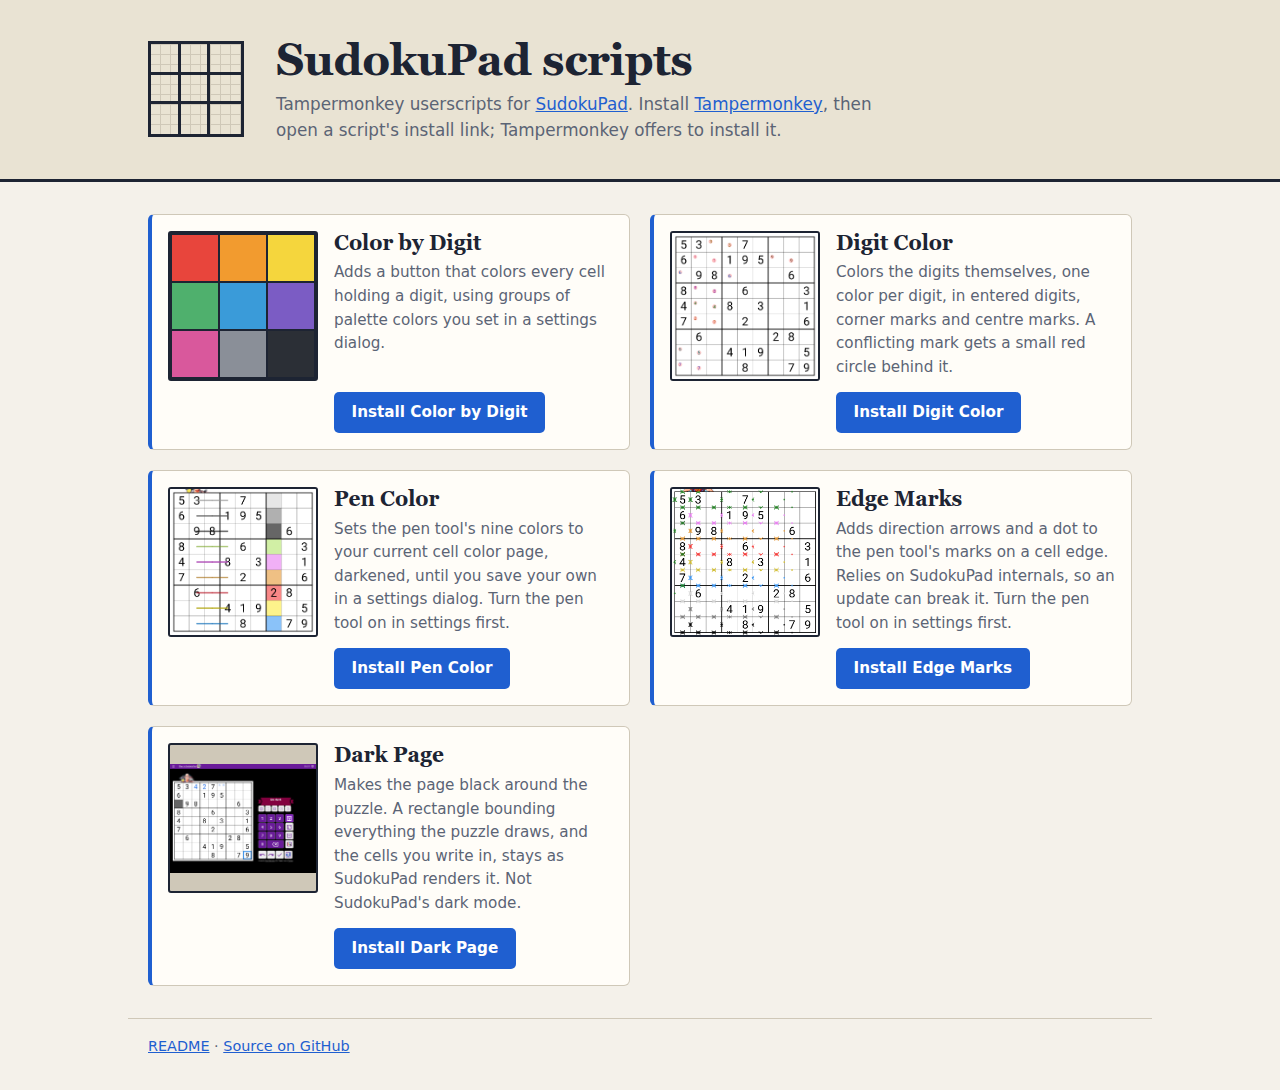
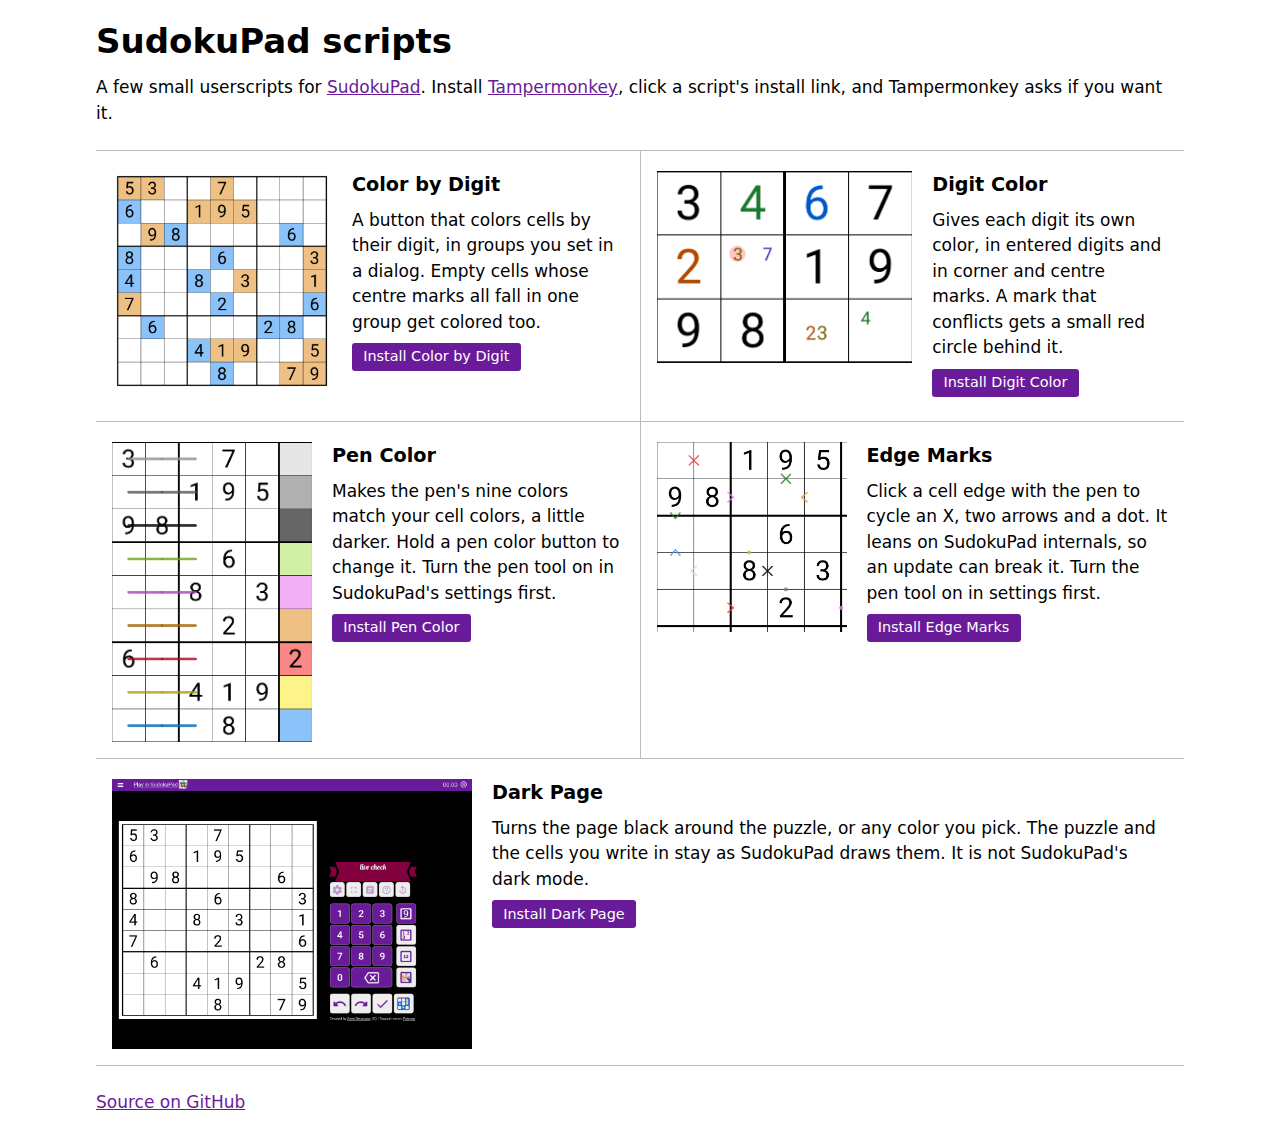
Homepage: plain hand-made page with real screenshots (#44) (#47)
* Homepage: rebuild as a plain hand-written page, with real screenshots

Closes #44

* Homepage pictures: keep the research evidence, crop to the feature

Homepage pictures get their own files so edge-marks-all-colors.png and
pen-color-match.png stay what the research notes say they are. Pen Color is
cropped to the strokes and matching colors; Edge Marks keeps a margin so no
mark is cut.

Closes #44

* Homepage: SudokuPad purple accent, grid rules, two columns on desktop

Closes #44

* Homepage: new Digit Color picture, a close crop with colored digits and marks

Closes #44

* Homepage: Digit Color picture cropped closer so the marks read

Closes #44

* Homepage: pictures use the full phone width

Closes #44

* Homepage: retake the desktop render

Closes #44

---------

diff --git a/site/index.html b/site/index.html
@@ -7,110 +7,78 @@
 <style>
   :root {
     color-scheme: light dark;
-    --bg: #f4f1ea; --card: #fffdf8; --ink: #1d2433; --muted: #5b6475; --line: #cfc8b8; --grid: #1d2433;
-    --accent: #1f5fd0; --accent-ink: #fff; --accent-hover: #1749a3; --hero: #e9e3d3; --pic: 150px; --rule: 3px;
+    /* SudokuPad's own button purple, read from its controls: rgb(106, 27, 154). */
+    --accent: #6a1b9a; --on-accent: #fff; --rule: #bbb;
   }
   @media (prefers-color-scheme: dark) {
-    :root {
-      --bg: #12151c; --card: #1b202b; --ink: #e8eaf0; --muted: #a2abbd; --line: #343c4d; --grid: #e8eaf0;
-      --accent: #6aa4ff; --accent-ink: #0b1220; --accent-hover: #93bcff; --hero: #181d28;
-    }
+    :root { --accent: #d2a8f0; --on-accent: #1a0a24; --rule: #555; }
   }
-  * { box-sizing: border-box; }
-  body { margin: 0; font: 16px/1.55 system-ui, -apple-system, "Segoe UI", sans-serif; color: var(--ink); background: var(--bg); }
+  body { max-width: 68rem; margin: 0 auto; padding: 1rem; font: 1.0625rem/1.5 system-ui, sans-serif; }
   a { color: var(--accent); }
-  .wrap { max-width: 64rem; margin: 0 auto; padding: 0 1.25rem; }
-  header { background: var(--hero); border-bottom: 3px solid var(--grid); }
-  header .wrap { display: flex; align-items: center; gap: 2rem; padding-top: 2.25rem; padding-bottom: 2.25rem; }
-  .logo { flex: none; width: 96px; height: 96px; border: var(--rule) solid var(--grid); background:
-    linear-gradient(var(--grid), var(--grid)) calc(100% / 3 - var(--rule) / 2) 0 / var(--rule) 100% no-repeat,
-    linear-gradient(var(--grid), var(--grid)) calc(200% / 3 - var(--rule) / 2) 0 / var(--rule) 100% no-repeat,
-    linear-gradient(var(--grid), var(--grid)) 0 calc(100% / 3 - var(--rule) / 2) / 100% var(--rule) no-repeat,
-    linear-gradient(var(--grid), var(--grid)) 0 calc(200% / 3 - var(--rule) / 2) / 100% var(--rule) no-repeat,
-    repeating-linear-gradient(90deg, transparent 0 calc(100% / 9 - 1px), var(--line) calc(100% / 9 - 1px) calc(100% / 9)),
-    repeating-linear-gradient(0deg, transparent 0 calc(100% / 9 - 1px), var(--line) calc(100% / 9 - 1px) calc(100% / 9)); }
-  h1 { margin: 0 0 .4rem; font: 800 clamp(1.9rem, 5vw, 2.75rem)/1.1 Georgia, "Times New Roman", serif; letter-spacing: -.01em; }
-  header p { margin: 0; max-width: 40rem; color: var(--muted); font-size: 1.05rem; }
-  main.wrap { display: grid; grid-template-columns: repeat(2, minmax(0, 1fr)); gap: 1.25rem; padding-top: 2rem; padding-bottom: 2rem; }
-  article { display: flex; gap: 1rem; background: var(--card); border: 1px solid var(--line); border-left: 4px solid var(--accent); border-radius: 6px; padding: 1rem; min-width: 0; }
-  .pic { flex: none; width: var(--pic); }
-  .pic img, .swatch { width: var(--pic); height: var(--pic); border: 2px solid var(--grid); border-radius: 3px; }
-  .pic img { display: block; object-fit: contain; background: var(--line); }
-  .swatch { display: grid; grid-template-columns: repeat(3, 1fr); gap: 2px; padding: 2px; background: var(--grid); }
-  .text { display: flex; flex-direction: column; min-width: 0; }
-  h2 { margin: 0 0 .35rem; font: 700 1.3rem/1.2 Georgia, "Times New Roman", serif; }
-  .text p { margin: 0 0 .8rem; font-size: .95rem; color: var(--muted); }
-  .text p:last-child { margin: auto 0 0; }
-  .install { display: inline-block; padding: .55rem 1.1rem; background: var(--accent); color: var(--accent-ink); border-radius: 5px; font-weight: 700; text-decoration: none; }
-  .install:hover, .install:focus-visible { background: var(--accent-hover); }
-  footer.wrap { border-top: 1px solid var(--line); padding-top: 1rem; padding-bottom: 2rem; color: var(--muted); font-size: .9rem; }
-  footer p { margin: 0; }
-  @media (max-width: 52rem) {
-    main.wrap { grid-template-columns: minmax(0, 1fr); }
+  h1, h2 { margin: 0 0 .5rem; }
+  h2 { font-size: 1.2rem; }
+  p { margin: 0 0 .5rem; }
+  .entries { display: grid; grid-template-columns: 1fr; gap: 1px; margin: 1.5rem 0; background: var(--rule); border-block: 1px solid var(--rule); }
+  section { display: flex; gap: 1.25rem; align-items: flex-start; padding: 1.25rem 1rem 1rem 0; background: Canvas; }
+  section img { flex: none; max-width: 50%; height: auto; }
+  .install { display: inline-block; padding: .2rem .7rem; border-radius: 3px; background: var(--accent); color: var(--on-accent); font-size: .9rem; text-decoration: none; }
+  .install:hover, .install:focus-visible { text-decoration: underline; }
+  @media (min-width: 52rem) {
+    .entries { grid-template-columns: 1fr 1fr; }
+    section { padding-left: 1rem; }
+    section:last-child:nth-child(odd) { grid-column: 1 / -1; }
   }
-  @media (max-width: 34rem) {
-    header .wrap { flex-direction: column; align-items: flex-start; gap: 1rem; }
-    .logo { width: 64px; height: 64px; }
-    article { flex-direction: column; }
-    .pic, .pic img, .swatch { width: 100%; max-width: 220px; }
-    .pic img, .swatch { height: auto; aspect-ratio: 1; }
+  @media (max-width: 36rem) {
+    section { flex-direction: column; gap: .75rem; padding-left: 0; }
+    section img { max-width: 100%; }
   }
 </style>
 </head>
 <body>
-  <header>
-    <div class="wrap">
-      <div class="logo" aria-hidden="true"></div>
-      <div>
-        <h1>SudokuPad scripts</h1>
-        <p>Tampermonkey userscripts for <a href="https://sudokupad.app">SudokuPad</a>. Install <a href="https://www.tampermonkey.net/">Tampermonkey</a>, then open a script's install link; Tampermonkey offers to install it.</p>
-      </div>
+  <h1>SudokuPad scripts</h1>
+  <p>A few small userscripts for <a href="https://sudokupad.app">SudokuPad</a>. Install <a href="https://www.tampermonkey.net/">Tampermonkey</a>, click a script's install link, and Tampermonkey asks if you want it.</p>
+  <div class="entries">
+  <section>
+    <img src="https://raw.githubusercontent.com/caneff/sudokupad-scripts/main/docs/research/site-color-by-digit.png" alt="A sudoku grid with cells colored by digit" width="220" height="220">
+    <div>
+      <h2>Color by Digit</h2>
+      <p>A button that colors cells by their digit, in groups you set in a dialog. Empty cells whose centre marks all fall in one group get colored too.</p>
+      <p><a class="install" href="https://raw.githubusercontent.com/caneff/sudokupad-scripts/main/color-by-digit.user.js">Install Color by Digit</a></p>
     </div>
-  </header>
-  <main class="wrap">
-    <article>
-      <div class="pic"><div class="swatch" role="img" aria-label="A grid of colored cells"><i style="background:#e8453c"></i><i style="background:#f29b2f"></i><i style="background:#f5d63d"></i><i style="background:#4fb06d"></i><i style="background:#3a9bd9"></i><i style="background:#7b5cc4"></i><i style="background:#d9589c"></i><i style="background:#8a8f98"></i><i style="background:#2b2f36"></i></div></div>
-      <div class="text">
-        <h2>Color by Digit</h2>
-        <p>Adds a button that colors every cell holding a digit, and every empty cell whose centre marks all belong to one group, using groups of palette colors you set in a settings dialog.</p>
-        <p><a class="install" href="https://raw.githubusercontent.com/caneff/sudokupad-scripts/main/color-by-digit.user.js">Install Color by Digit</a></p>
-      </div>
-    </article>
-    <article>
-      <div class="pic"><img src="https://raw.githubusercontent.com/caneff/sudokupad-scripts/main/docs/research/digit-color-centred-circles.png" alt="Digit Color in SudokuPad" loading="lazy" width="150" height="150"></div>
-      <div class="text">
-        <h2>Digit Color</h2>
-        <p>Colors the digits themselves, one color per digit, in entered digits, corner marks and centre marks. A conflicting mark gets a small red circle behind it.</p>
-        <p><a class="install" href="https://raw.githubusercontent.com/caneff/sudokupad-scripts/main/digit-color.user.js">Install Digit Color</a></p>
-      </div>
-    </article>
-    <article>
-      <div class="pic"><img src="https://raw.githubusercontent.com/caneff/sudokupad-scripts/main/docs/research/pen-color-match.png" alt="Pen Color in SudokuPad" loading="lazy" width="150" height="150"></div>
-      <div class="text">
-        <h2>Pen Color</h2>
-        <p>Sets the pen tool's nine colors to your current cell color page, darkened, each pen on the same button number as its cell color and the darkest grey black, until you save your own in a settings dialog or by holding a pen color button. Turn the pen tool on in settings first.</p>
-        <p><a class="install" href="https://raw.githubusercontent.com/caneff/sudokupad-scripts/main/pen-color.user.js">Install Pen Color</a></p>
-      </div>
-    </article>
-    <article>
-      <div class="pic"><img src="https://raw.githubusercontent.com/caneff/sudokupad-scripts/main/docs/research/edge-marks-all-colors.png" alt="Edge Marks in SudokuPad" loading="lazy" width="150" height="150"></div>
-      <div class="text">
-        <h2>Edge Marks</h2>
-        <p>Adds direction arrows and a dot to the pen tool's marks on a cell edge. Relies on SudokuPad internals, so an update can break it. Turn the pen tool on in settings first.</p>
-        <p><a class="install" href="https://raw.githubusercontent.com/caneff/sudokupad-scripts/main/edge-marks.user.js">Install Edge Marks</a></p>
-      </div>
-    </article>
-    <article>
-      <div class="pic"><img src="https://raw.githubusercontent.com/caneff/sudokupad-scripts/main/docs/research/dark-page.png" alt="Dark Page in SudokuPad" loading="lazy" width="150" height="150"></div>
-      <div class="text">
-        <h2>Dark Page</h2>
-        <p>Makes the page black around the puzzle, or another color you pick in a settings dialog. A rectangle bounding everything the puzzle draws, and the cells you write in, stays as SudokuPad renders it. Not SudokuPad's dark mode.</p>
-        <p><a class="install" href="https://raw.githubusercontent.com/caneff/sudokupad-scripts/main/dark-page.user.js">Install Dark Page</a></p>
-      </div>
-    </article>
-  </main>
-  <footer class="wrap">
-    <p><a href="https://github.com/caneff/sudokupad-scripts#readme">README</a> · <a href="https://github.com/caneff/sudokupad-scripts">Source on GitHub</a></p>
-  </footer>
+  </section>
+  <section>
+    <img src="https://raw.githubusercontent.com/caneff/sudokupad-scripts/main/docs/research/site-digit-color.png" alt="Large colored digits with matching corner and centre marks, one with a red circle" width="300" height="225">
+    <div>
+      <h2>Digit Color</h2>
+      <p>Gives each digit its own color, in entered digits and in corner and centre marks. A mark that conflicts gets a small red circle behind it.</p>
+      <p><a class="install" href="https://raw.githubusercontent.com/caneff/sudokupad-scripts/main/digit-color.user.js">Install Digit Color</a></p>
+    </div>
+  </section>
+  <section>
+    <img src="https://raw.githubusercontent.com/caneff/sudokupad-scripts/main/docs/research/site-pen-color.png" alt="Pen strokes beside cells in matching colors" width="200" height="300">
+    <div>
+      <h2>Pen Color</h2>
+      <p>Makes the pen's nine colors match your cell colors, a little darker. Hold a pen color button to change it. Turn the pen tool on in SudokuPad's settings first.</p>
+      <p><a class="install" href="https://raw.githubusercontent.com/caneff/sudokupad-scripts/main/pen-color.user.js">Install Pen Color</a></p>
+    </div>
+  </section>
+  <section>
+    <img src="https://raw.githubusercontent.com/caneff/sudokupad-scripts/main/docs/research/site-edge-marks.png" alt="Arrows, dots and crosses on cell edges" width="190" height="190">
+    <div>
+      <h2>Edge Marks</h2>
+      <p>Click a cell edge with the pen to cycle an X, two arrows and a dot. It leans on SudokuPad internals, so an update can break it. Turn the pen tool on in settings first.</p>
+      <p><a class="install" href="https://raw.githubusercontent.com/caneff/sudokupad-scripts/main/edge-marks.user.js">Install Edge Marks</a></p>
+    </div>
+  </section>
+  <section>
+    <img src="https://raw.githubusercontent.com/caneff/sudokupad-scripts/main/docs/research/dark-page.png" alt="A puzzle on a black page" width="360" height="270">
+    <div>
+      <h2>Dark Page</h2>
+      <p>Turns the page black around the puzzle, or any color you pick. The puzzle and the cells you write in stay as SudokuPad draws them. It is not SudokuPad's dark mode.</p>
+      <p><a class="install" href="https://raw.githubusercontent.com/caneff/sudokupad-scripts/main/dark-page.user.js">Install Dark Page</a></p>
+    </div>
+  </section>
+  </div>
+  <p><a href="https://github.com/caneff/sudokupad-scripts">Source on GitHub</a></p>
 </body>
 </html>
